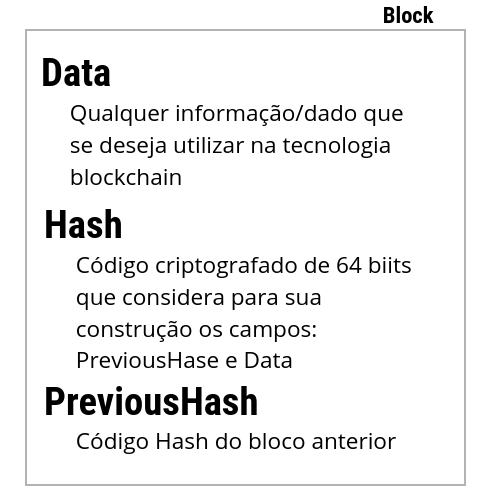
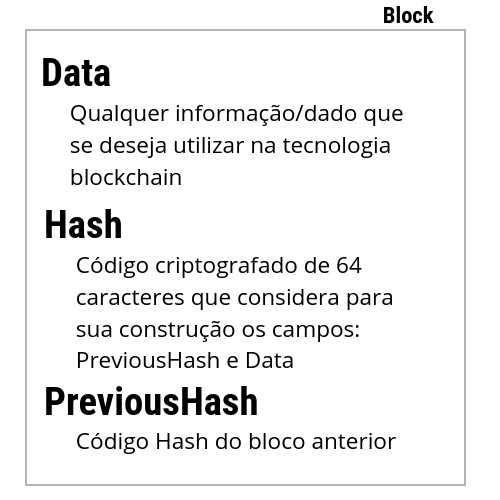
T

Changed region(s): [[0.15, 0.57, 0.78, 0.75], [0.72, 0.51, 0.84, 0.57]]

diff --git a/README.md b/README.md
@@ -1,17 +1,21 @@
-<style>
-    .image{
-        margin: auto;
-        display: block;
-        width = 50%;
-    }
-</style>
+
 
 # Blockchain
-Como o próprio nome sugere, blockchain é basicamente um conjunto de blocos que estão conectados de forma criptografada. A ideia principal é que cada bloco tenha: a hash do bloco anterior, sua própria hash e seu dado
+Como o próprio nome sugere, blockchain é basicamente um conjunto de blocos que estão conectados de forma criptografada. A ideia principal é que cada bloco tenha: a hash do bloco anterior, sua própria hash e seu dado. Como na figura abaixo:
+
+<img src="/images/Block.png" width="300px">
 
 
-<img src="/images/Block.png" class="image">
+## Entendendo Hash SHA 256
+É uma maneira muito segura de criptografar dados utilizada na construção do blockchain. O código hash gerado é composto por 64 caracteres em que qualquer dado/arquivo digital pode ser criptografado pela Hash SHA-256.
 
+### Tem-se 5 requisitos para um algoritmo Hash
+1. Sem retorno (Não é possivel transformar o codigo em arquivo/dado novamente)
+1. Determinístico (O mesmo arquivo/dado deve sempre apresentar o mesmo código hash)
+1. Processamento rápido
+1. Efeito avalanche (Qualquer alteração no documento gerador deve alterar o código hash)
+1. Deve suportar colisões
 
-![](/images/Block.png)
-## OUtros Topicos
+<a href="https://tools.superdatascience.com/blockchain/hash/">Simulador Hash</a>
+
+## Registros Imutáveis
